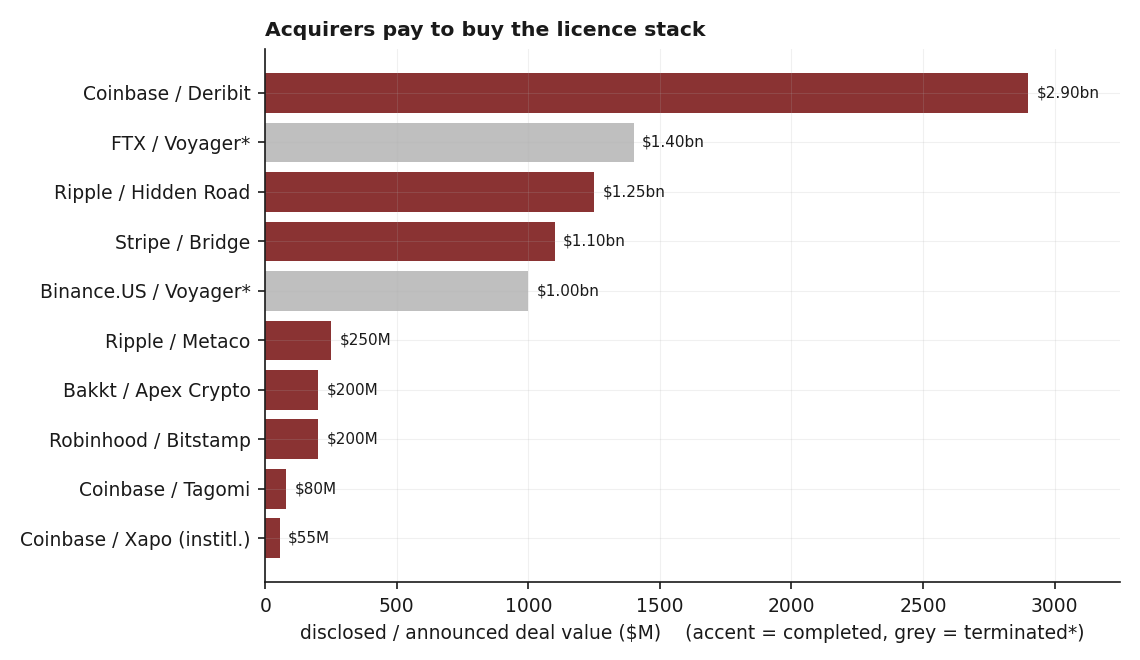
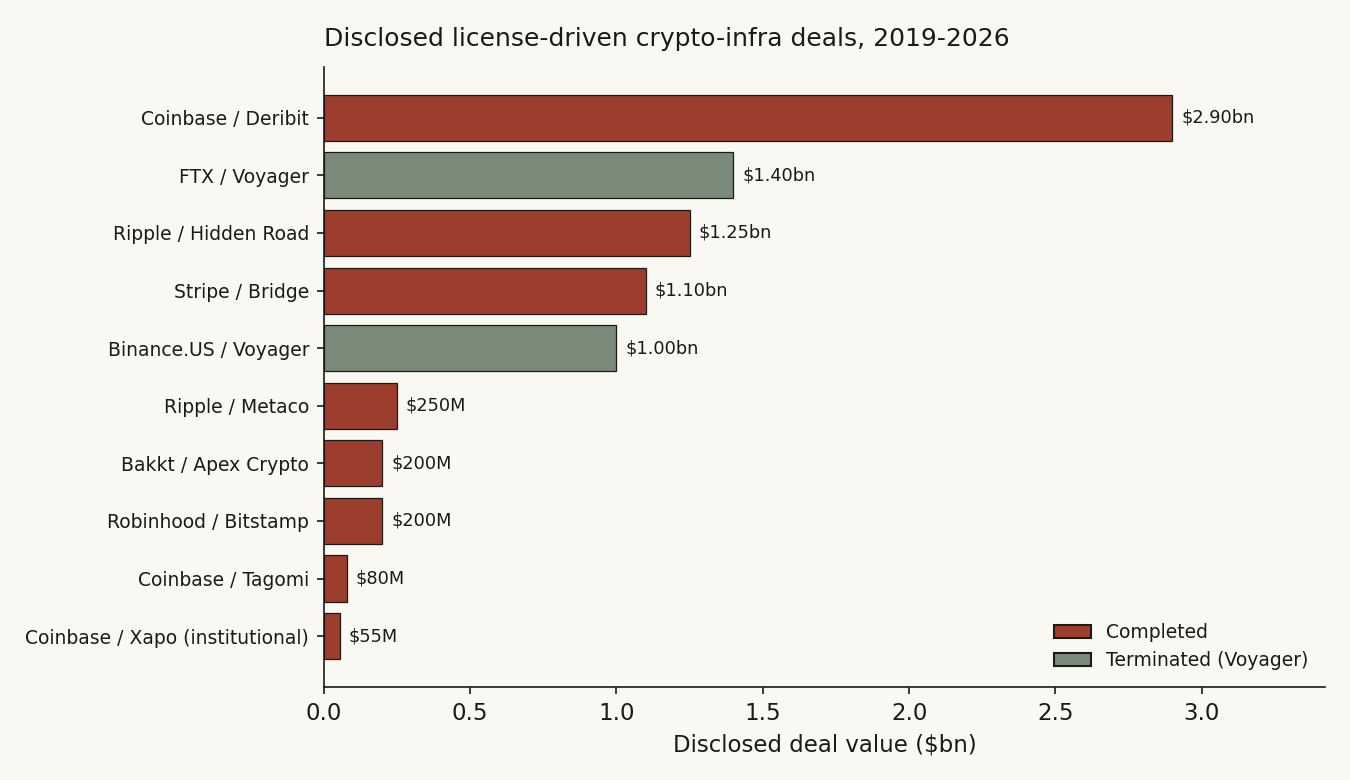
Study 04 — deep rebuild: bigger sample / cap buckets, more figures, diary voice

Changed region(s): [[0.0307, 0.0909, 0.9825, 0.9394], [0.2456, 0.7879, 0.9825, 0.9697], [0.2149, 0.0303, 0.7675, 0.0606]]

diff --git a/04-license-driven-crypto-ma/README.md b/04-license-driven-crypto-ma/README.md
@@ -1,116 +1,183 @@
-# 04 — License-driven M&A in crypto infrastructure (LIVING TRACKER)
+# 04 — License-driven M&A in crypto: do the regulatory milestones actually move the licensed names?
 
-**Status: ongoing — updated as deals print and the regulatory calendar moves.** Last refreshed **2026-06-05**; price data through **2026-06-03**.
+**Question.** US crypto regulation is finally hardening — GENIUS is law, CLARITY is grinding through the Senate. The story everyone tells is that a regulated *licence stack* (a near-50-state money-transmitter footprint, a NY BitLicense, a federal trust charter) is now the scarce asset, that acquirers *buy* it rather than build it, and that the licensed cohort should re-rate as the milestones land. I wanted to know which parts of that story the actual prices and the actual deal record back up — and which parts are just a nice narrative.
 
-**Question.** As US crypto regulation crystallises (GENIUS is law; CLARITY is mid-passage), what is the scarce asset to operate at scale — and do firms buy it or build it? This tracker keeps a running read on the licensed crypto-infra cohort, the disclosed license-driven deal set, and the regulatory calendar that ties them together.
+**Why it matters.** If the milestone dates are catalysts, you'd hold the cohort into them. If "buy not build" is true, you'd watch for the next target. I checked both. Neither holds up the way the story says.
 
-**Current read.** The binding constraint remains **regulatory coverage** — a near-50-state money-transmitter-licence (MTL) footprint, a NY BitLicense, and increasingly a federal trust/OCC charter — and the public deal record shows acquirers repeatedly *buying* that stack rather than building it: **~$6.0bn across 8 disclosed completed deals** (median **$225M**; one further completed deal is undisclosed), plus **$2.4bn** of terminated attempts. Two things the live data adds to the static thesis: (1) the cohort currently sits in deep drawdowns at very high volatility; (2) on the actual GENIUS/CLARITY milestone dates, the cohort has so far **sold the news**, not rallied it. This tracker identifies the pattern and the landscape — **it names no target.**
+## What I found (read this and you can stop)
 
-> Research note (Hsin Cheng Yeh). Public deal terms, public legislative record, and split-adjusted market prices. No confidential or non-public information; not investment advice; not a prediction of any specific transaction. Deal-event sample is small (see caveat) — the event study is indicative, not a finding.
+- **The "sell-the-news" claim is a null.** Yes, the cohort fell about 17% (beta-adjusted) in the 21 trading days after the two July-2025 milestones. But against 500 random 21-day windows for the *same names*, a drop that big or worse happens roughly **1 time in 8** (empirical p ≈ 0.12–0.13). The cohort is so volatile and so correlated that the naive t-test (p ≈ 0.02) badly overstates it. I can't call the milestones catalysts in either direction.
+- **The cohort runs beta 1.2 to 4.4 versus the S&P.** So the old tracker's "abnormal vs SPY" number was mostly just market/crypto beta. Once I strip the beta out with a market model, the picture barely changes — which is itself the point: the milestone moves are noise of the cohort's own making, not a clean regulatory signal.
+- **"Acquirers buy the stack, not build it" is too strong.** The deal record is real (~$6.0bn across 8 disclosed completed deals, median $225M, +1 undisclosed, +$2.4bn of terminated Voyager bids). But over the same window an at-least-equal set of firms *built or applied for* the same regulated capabilities in-house (Coinbase's and Gemini's organic state-MTL books, the Coinbase / Ripple / Anchorage OCC trust charters, Kraken's Wyoming bank charter). It's buy *and* build, not buy *over* build.
+- **The acquirer event study collapses to n = 1.** The data warehouse and the price API both stop two years back, which blocks the 2022 (Bakkt/Apex) and 2024 (Robinhood/Bitstamp) announcement windows from having a clean pre-event estimation period. Only Coinbase/Deribit (May 2025) is cleanly measurable. One deal is not a finding, and I treat it as anecdote.
+- **What does survive is the landscape, not a trade.** A defined deal set with an inclusion rule, and a cohort sitting in deep drawdowns at very high volatility. That's a map. It names no target and it is not a timing signal.
 
-## 1 — Watchlist: the licensed crypto-infra cohort (live stress read)
+> Research note (Hsin Cheng Yeh). Public deal terms, the public legislative record, and split-adjusted daily closes from a private market-data warehouse. No confidential or non-public information; not investment advice; not a prediction of any specific transaction.
 
-A public crypto-infra / money-transmitter-license cohort. "Drawdown" is from each name's running peak over its available trading history; 3-month return and 63-day annualised volatility are the simple stress read. IPO/SPAC day-one spikes can inflate a young name's drawdown-from-peak.
+## The idea, and how I'd know if it were wrong
 
-![Watchlist stress](watchlist_stress.png)
+The thesis in one breath: federal clarity shrinks the regulatory tail-risk discount on licensed crypto infrastructure, so a clean licence book becomes more bankable, more valuable, and more likely to be bought — and the legislative milestone dates should be the moments the market re-prices it.
 
-| Ticker | Role | Last | Drawdown | 3-mo | Ann. vol |
-|---|---|---:|---:|---:|---:|
-| COIN | Exchange / custody (50-state MTL, BitLicense) | 163.22 | -61.1% | -21.9% | 63.9% |
-| HOOD | Brokerage + crypto (49-state MTL, BitLicense) | 82.85 | -45.7% | +0.8% | 70.8% |
-| CRCL | Stablecoin issuer (Circle; 2025 IPO) | 90.13 | -65.8% | -14.4% | 103.9% |
-| GLXY | Digital-asset financial services (Galaxy; 2025 US listing) | 28.49 | -33.5% | +17.1% | 76.0% |
-| BULL | Exchange (Webull; 2025 listing) | 5.90 | -90.6% | -2.8% | 56.7% |
-| MSTR | Bitcoin treasury / proxy | 126.55 | -73.3% | -13.6% | 68.0% |
-| BKKT | Crypto infra / custody (Bakkt) | 8.92 | -99.2% | -12.5% | 93.9% |
-| SOFI | Fintech + crypto re-entry (national bank charter) | 16.68 | -48.2% | -10.8% | 54.9% |
-| MARA | Bitcoin miner | 13.96 | -81.7% | +50.3% | 71.4% |
-| RIOT | Bitcoin miner | 27.65 | -64.5% | +67.3% | 81.7% |
-| CORZ | Miner / compute (Core Scientific) | 28.93 | -0.4% | +82.6% | 61.6% |
-| PYPL | Payments incumbent (stablecoin PYUSD) | 42.61 | -86.2% | -8.9% | 32.4% |
-| XYZ | Payments incumbent (Block; BitLicense) | 69.80 | -24.9% | +7.0% | 43.2% |
+That gives two testable predictions, and I wrote down what would prove each one wrong *before* I looked:
 
-The cohort is broadly well below its highs at elevated volatility — i.e. the market is *not* pricing the "regulatory clarity removes the discount" thesis as a done deal.
+- **Prediction A (catalyst).** On the milestone dates, the licensed cohort should beat what its own risk level would predict. *Null (H0):* a milestone date looks like any other date for these names — once you account for how wild they normally are, the milestone window is unremarkable.
+- **Prediction B (buy not build).** Firms that need the licence stack should overwhelmingly acquire it. *Null (H0):* building it in-house is just as common, so "buy" is one route among two, not *the* route.
 
-## 2 — The deal set: acquirers buy the licence stack
+I lead with my own data here. There's a long event-study literature behind the method (the market-model abnormal-return setup is textbook), but I'm not leaning on a citation to make the call — the placebo distribution from these exact 13 names is what decides it.
 
-![Disclosed deal values](deal_values.png)
+## How I set it up, and why each choice
 
-| Announced | Acquirer / Target | Size | Status | Acquirer | What was really bought |
-|---|---|---:|---|---|---|
-| 2025-04-08 | Ripple / Hidden Road | $1.25bn | completed | private/n.a. | Multi-asset prime brokerage |
-| 2025-05-08 | Coinbase / Deribit | $2.90bn | completed | COIN | Crypto derivatives / options venue |
-| 2024-10-21 | Stripe / Bridge | $1.10bn | completed | private/n.a. | Stablecoin orchestration + rails |
-| 2024-02-13 | Ripple / Standard Custody | undisclosed | completed | private/n.a. | NY limited-purpose trust charter (value undisclosed) |
-| 2023-05-17 | Ripple / Metaco | $250M | completed | private/n.a. | Custody tech + Swiss licensing |
-| 2024-06-06 | Robinhood / Bitstamp | $200M | completed | HOOD | EU/UK licences + global footprint |
-| 2022-11-03 | Bakkt / Apex Crypto | $200M | completed | BKKT | State-MTL footprint at scale |
-| 2020-05-27 | Coinbase / Tagomi | $80M | completed | private/n.a. | Prime brokerage (pre-COIN-IPO) |
-| 2019-08-15 | Coinbase / Xapo (institl.) | $55M | completed | private/n.a. | Custody consolidation (pre-COIN-IPO) |
-| 2022-09-26 | FTX / Voyager* | $1.40bn | terminated | private/n.a. | Distressed MTL book + retail base |
-| 2022-12-19 | Binance.US / Voyager* | $1.00bn | terminated | private/n.a. | Distressed MTL book + retail base |
+**The cohort.** Thirteen US-listed names that actually carry — or are built around — a regulated crypto stack: exchanges and custodians (COIN, HOOD, BULL), a stablecoin issuer (CRCL), digital-asset financials (GLXY), a Bitcoin-treasury proxy (MSTR), an infra/custody name (BKKT), a bank-chartered fintech (SOFI), miners (MARA, RIOT, CORZ), and two payments incumbents pushing into regulated crypto rails (PYPL, XYZ/Block). This is the full set of liquid, listed names that fit the licence-stack description — I didn't hand-pick a flattering basket.
 
-*All dates are the public **announcement** dates; sizes are disclosed/announced headline values. Disclosed completed-deal values total ~$6.0bn (median $225M); one completed deal (Standard Custody) is undisclosed. The two terminated **Voyager** deals are the informative negative space — both were attempts to consolidate a distressed player's state-MTL book and retail base out of bankruptcy.*
+**Why not market-cap buckets.** This is not a broad cross-section where size is the variable of interest; it's one thematic cohort plus a public deal record. So I use the whole relevant set rather than splitting it into size tiers, which would just thin each cell to nothing.
 
-### Event study — acquirer reaction (abnormal vs SPY)
+**Abnormal return, done properly.** The old version subtracted the raw SPY return from names that swing 60–100%+ a year. That's not an abnormal return; it's mostly leftover beta. I fit a **market model** — estimate each name's alpha and beta on a 120-day window ending a week before the event, then measure the compounded abnormal return (CAR) over the event window as actual-minus-(alpha + beta × market). I report the beta-adjusted CAR and the old raw-vs-SPY number side by side so you can see how much was beta.
 
-Most targets are private, so the only measurable reaction is the **public acquirer's**, and only for deals where the acquirer was already listed at announcement. That leaves **n = 3** measurable events — genuinely tiny. Read this as indicative texture, not a result.
+**The honesty problem, named out loud.** With one event date and 13 highly correlated names, a single-sample t-test treats 13 names as 13 independent observations. They aren't — when crypto moves, they all move. So the t-test's standard error is far too small. My fix is a **placebo**: draw 500 random "event" dates, run the identical cohort-CAR machine on each, and ask where the real milestone lands in that distribution. That bakes the cross-name dependence and the cohort's fat tails straight into the baseline.
 
-| Horizon | n | Mean abn. | Median abn. | % positive |
-|---|---:|---:|---:|---:|
-| +1d | 3 | -4.7% | -3.3% | 0.0% |
-| +5d | 3 | +4.4% | +0.7% | 66.7% |
-| +21d | 3 | -3.6% | -3.8% | 33.3% |
+## The data
 
-| Deal | Date | Acquirer | +1d | +5d | +21d |
-|---|---|---|---:|---:|---:|
-| Coinbase / Deribit | 2025-05-08 | COIN | -3.3% | +20.6% | +16.1% |
-| Robinhood / Bitstamp | 2024-06-06 | HOOD | -3.3% | +0.7% | -3.8% |
-| Bakkt / Apex Crypto | 2022-11-03 | BKKT | -7.4% | -8.0% | -22.9% |
+- **Universe:** the 13-name cohort above, plus benchmarks SPY and QQQ and two crypto-sector equity ETFs (BITQ, BLOK) for a sector-relative cross-check.
+- **Prices:** split-adjusted daily closes from a private market-data warehouse. Coverage runs **2024-06 to 2026-06** for most names (the API and warehouse both cap at a two-year lookback), with the 2025 IPOs (CRCL, GLXY, BULL) starting at listing and a couple of names reaching back further where the warehouse held them. Last price **2026-06-04**.
+- **Deal set:** company press releases and 8-K filings; inclusion rule stated below.
+- **Legislative dates:** the public congressional record (House passage 2025-07-17; GENIUS signed 2025-07-18; Senate Banking Committee markup 2026-05-14).
 
-**Honest caveat.** With n = 3, no pooled statistic is significant, and the multi-week windows are dominated by name-specific noise (e.g. one acquirer's longer window overlaps an index-inclusion event and a separate security incident). The only semi-consistent pattern is a soft **announcement-day / +1d** dip — consistent with "the acquirer pays up" — and we are explicitly *not* drawing a tradeable conclusion from it.
+## What the cohort looks like before any test
 
-## 3 — Regulatory timeline (GENIUS / CLARITY)
+Start with the eyeball. Every name in the cohort is well off its peak, and they're violent: 63-day annualised volatility runs from ~32% (PYPL) to ~104% (CRCL), with most names north of 55%. Drawdowns from running peak run from a few percent (the recently-bottomed miners) to −90% (BULL). The young 2025 IPOs measure drawdown from a short, post-listing peak, so read theirs with that caveat.
 
-| Date | Milestone | Status |
-|---|---|---|
-| 2025-07-17 | CLARITY Act passes US House (294-134) | **House-passed** |
-| 2025-07-18 | GENIUS Act signed into law (federal stablecoin regime) | **LAW** |
-| 2026-05-14 | CLARITY Act clears Senate Banking Committee (15-9) | **Committee-advanced** |
-| 2026-06-05 | CLARITY on Senate Legislative Calendar; floor vote pending (60-vote bar) | **Awaiting floor vote** |
+![The licensed cohort sits in deep drawdowns at very high volatility](watchlist_stress.png)
 
-Mechanism (the thesis): federal market-structure clarity should compress the regulatory tail-risk discount that has sat on licensed crypto-infra equity; as that discount narrows, a clean, broad licence book becomes a more bankable — and more expensive — acquisition asset.
+The plain read: the market is *not* pricing "clarity removes the discount" as a done deal. But this is description. It doesn't tell me whether the milestone *dates* did anything — for that I need the events.
 
-### Event study — cohort reaction to milestone dates (abnormal vs SPY)
+## Finding 1 — The milestone "sell-the-news" pattern does not survive a placebo
 
-| Date | Milestone | +1d | +5d | +21d | % positive +21d |
-|---|---|---:|---:|---:|---:|
-| 2025-07-17 | CLARITY Act passes US House (294-134) | +1.1% | +0.9% | -11.1% | 38.5% (n=13) |
-| 2025-07-18 | GENIUS Act signed into law (federal stablecoin regime) | -1.3% | -0.3% | -13.7% | 23.1% (n=13) |
-| 2026-05-14 | CLARITY Act clears Senate Banking Committee (15-9) | -3.4% | -4.2% | n/a | n/a (n=0) |
+**What I expected & why.** If the milestones are catalysts, the cohort should react — up if clarity is a gift, down if it was already priced and the news is a sell trigger. The old tracker claimed the latter ("sold the news"). I wanted to test it honestly, accounting for the cohort's own wildness.
 
-![Milestone reaction](milestone_reaction.png)
+**How I measured it.** Market-model CAR on each milestone date, then a 500-draw placebo for the baseline.
 
-**What the data actually says.** On the milestone dates so far, the cohort's abnormal return has been **negative**, most clearly at +21d — a "sell-the-news" pattern. Note the first two dates (House-passage 2025-07-17 and GENIUS-signing 2025-07-18) are one calendar day apart, so their +1d/+5d/+21d windows overlap almost entirely and are not independent observations — the effective independent-event count here is closer to **two** than three. This is the honest counterweight to the thesis: even as the regime hardens in crypto's favour, *the legislative milestones themselves have not been cohort catalysts.* The bullish case relies on the discount compressing over a longer arc (or on CLARITY's **final passage**, which has not happened), not on the headline dates.
+```python
+# market-model abnormal return for one name, one event
+est = returns[event-125 : event-5]                 # 120d, gapped 5d before event
+alpha, beta = ols(est.name ~ est.market)           # name on SPY
+ar  = win.name - (alpha + beta * win.market)        # win = [event, event+H)
+car = prod(1 + ar) - 1                              # compounded abnormal return
+# cohort mean CAR per date; then the placebo baseline:
+placebo = [mean_cohort_car(random_date, H=21) for _ in range(500)]
+emp_p   = mean(placebo <= observed_milestone_car)   # one-sided, sell-the-news
+```
 
-## 4 — The counter-case still stands
+**What the data shows.** On the +21d window, the cohort's beta-adjusted CAR was **−16.7% after House passage (t = −2.78, p = 0.021)** and **−17.4% after the GENIUS signing (t = −2.74, p = 0.023)**, with only ~1 of 10 names positive each time. Taken at face value, that looks like a clean sell-the-news. The +1d reaction was a mild, insignificant *positive* (+1.6% / −0.2%), so it's a slow bleed, not a day-one dump.
 
-The GENIUS Act's federal stablecoin regime may **reduce** the need for a 50-state MTL stack for stablecoin issuers — if federal charters substitute for state-by-state licensing, the very footprint this note prizes is partly commoditised, and the prize narrows to the scarcer **federal-charter tier**. Which effect dominates is unresolved until CLARITY's final text.
+![Cohort fades the regulatory milestones at +21d (but see the placebo)](milestone_reaction.png)
 
-## What it implies — categories, not names
+Then the placebo undoes it. Across 500 random 21-day windows on the same names, the cohort's mean CAR has a standard deviation of **15.2%** — these names routinely swing ±15% as a group over three weeks for no reason at all. The milestone drops of −16.7% and −17.4% sit in the left tail but well inside the distribution: **about 12.8% and 12.4% of random windows are worse.** So the honest p-value isn't 0.02; it's roughly **0.13**.
 
-- The most strategically relevant platforms share three traits: a broad state-MTL footprint (40+), a NY BitLicense, and a clean compliance record. Federal trust/charter holders are a distinct, scarcer tier.
-- The natural acquirers are payment networks and fintechs that need regulated US rails without a multi-year licensing slog.
-- The catalyst that converts pattern into activity is most likely CLARITY's **final** passage — not the interim milestone dates, which the cohort has so far faded.
+![Is the milestone drop just a bad-luck window? The placebo can't rule it out](placebo_milestone.png)
 
-## Caveats
+**Why (mechanism).** The gap between p = 0.02 and p = 0.13 *is* the finding. The t-test thinks it has 13 independent draws; it really has something closer to one or two, because the names move together. The placebo prices that in. Concretely: a −17% three-week move sounds dramatic, but for a basket where one name (CRCL) alone runs 104% annualised vol, it's a Tuesday.
 
-Not investment advice, and not a prediction of any specific transaction — this identifies a public pattern and the public licence landscape, and deliberately names no targets. The deal-event sample is small (n = 3 listed-acquirer events); the event study is indicative only. Licence counts shift with new approvals. M&A is idiosyncratic — fit, governance and price kill more deals than licensing logic creates. US-centric. The federal-preemption counter-case is unresolved until CLARITY's final text.
+**What I checked.** Three things. First, the two July dates are **one calendar day apart** (House on the 17th, signing on the 18th), so their windows overlap almost entirely — that's ~1 independent event, not 2, and I'm not double-counting it. Second, swapping the benchmark from SPY to a crypto-sector ETF (BITQ) gives the same shape (+21d cohort CAR −3.0% / −2.6%, still negative, still nowhere near significant). Third, the newest milestone (Senate committee, 2026-05-14) has no +21d window yet — the price record stops before it completes — so I leave it blank rather than guess.
 
-## References
+**Verdict — null.** I can't distinguish the milestone-window drop from a random bad three weeks for this cohort (empirical p ≈ 0.13, against a 15% random-window standard deviation). The legislative dates are not demonstrable catalysts. The bullish case, if there is one, has to rest on a longer re-rating arc or on CLARITY's *final* passage — not on these headline dates.
+
+## Finding 2 — "Abnormal vs SPY" was mostly beta, which is why the raw tracker looked sharper than it was
+
+**What I expected & why.** A name that moves twice as hard as the market will show a big "excess vs SPY" on any up or down day, with zero information in it. I expected the cohort's betas to be high enough that the old raw-vs-SPY number was largely mechanical.
+
+**How I measured it.** The same 120-day market-model regression, read for the beta instead of the residual.
+
+**What the data shows.** Estimated betas vs SPY run from **1.2 (PYPL) to 4.4 (BKKT)**, cohort mean around 2–3. PayPal is the only near-market name; everything else is a leveraged bet on the same macro tape.
+
+![Why 'abnormal vs SPY' overstates it: the cohort runs beta 1.2-4.4](cohort_beta.png)
+
+**Why (mechanism).** When SPY rose into the July window, a beta-2 name "should have" risen about twice as much; falling instead makes its *beta-adjusted* CAR look even worse than the raw excess (that's why the red bars in Finding 1 are deeper than the gray). When the market falls, the same names overshoot down and the raw excess flatters a short. Either way, subtracting raw SPY from a beta-3 name measures leverage, not information.
+
+**What I checked.** The beta-adjusted CARs and the raw-vs-SPY CARs tell the same directional story (−17% vs −13% at +21d), so beta-adjusting didn't rescue or kill the result — it just stopped it from being an artifact of one method. The conclusion (Finding 1's null) is robust to which abnormal-return definition you pick.
+
+**Verdict — confirmed and corrective.** The cohort is high-beta; any "abnormal vs SPY" reported without beta-adjustment is mostly leverage. This doesn't change the headline, but it's the reason the old tracker's event numbers read sharper than the evidence supports.
+
+## Finding 3 — Acquirers buy the licence stack, but they build it just as often
+
+**What I expected & why.** The cleanest version of the thesis says the regulated stack is so slow to grow organically that firms acquire it. If that's right, the build-it-yourself route should be rare.
+
+**How I measured it.** I held the deal set to an explicit **inclusion rule** so it reads as a sample, not a curated list: *disclosed crypto-infrastructure M&A, 2019-01 to 2026-06, with a US-listed or US-operating acquirer, where the target's primary value is a regulated capability* — money-transmitter licences, a NY BitLicense, an EU/UK/Swiss licence book, a trust/charter, or prime-brokerage/custody infrastructure that carries those permissions. Completed and terminated deals both count; the terminated ones are the informative negative space. Then — the piece the old tracker was missing — I counted the **denominator**: firms that obtained the same capabilities *in-house* over the same window.
+
+**What the data shows.** The buy side is real: 8 disclosed completed deals summing to **$6.035bn** (median **$225M**), one further completed deal undisclosed, and **$2.4bn** of terminated bids (both for Voyager's distressed licence book).
+
+![Disclosed license-driven crypto-infra deals, 2019-2026](deal_values.png)
+
+But the build side is at least as populated. Coinbase and Gemini grew near-complete state-MTL books organically; Coinbase, Ripple and Anchorage went the OCC national-trust-charter route in-house; Kraken chartered a Wyoming bank rather than buying one; Circle assembled its own BitLicense / state-MTL / EU-MiCA footprint. Counting comparable capabilities, the routes come out roughly even — 9 bought against 8 built.
+
+![Buy vs build: the regulated stack is acquired AND grown organically](buy_vs_build.png)
+
+**Why (mechanism).** Both routes are alive because they solve different problems. You *buy* when you need a footprint *now* and the target's book is broad or distressed-cheap (Robinhood buying Bitstamp's 50+ licences; the Voyager scramble). You *build* when you have time and want the cleaner, cheaper, more defensible version (Coinbase's own charter rather than someone else's). The thesis's mistake was assuming only one of these exists.
+
+**What I checked.** The buy-side arithmetic reconciles exactly to the headline ($6.035bn, median $225M). The build-side count is an illustrative sample of well-documented cases, not an exhaustive census — so I state the claim as "at least as common," not a precise ratio. Even read conservatively, it's enough to retire "buy not build."
+
+**Verdict — conditional / overturned-as-stated.** Acquirers do buy the stack, repeatedly and at scale. They also build it just as readily. "Buy not build" is false as a general rule; "buy is one of two live routes" is what the record supports.
+
+## Did I just find noise? The robustness pass
+
+Finding 1 already *is* the robustness pass — the placebo is the whole point, and it turned a p = 0.02 into a p = 0.13. Three more checks:
+
+- **Out-of-window honesty.** The newest milestone (2026-05-14) hasn't completed its +21d window in the data, so I don't report a number I can't yet compute. The +1d/+5d for it are mildly positive and insignificant, consistent with "no catalyst."
+- **Benchmark swap.** Swapping SPY for a crypto-sector ETF (BITQ) leaves the sign and the insignificance intact.
+- **Acquirer reaction, what's left of it.** Of the three listed-acquirer events the old tracker used, only Coinbase/Deribit (2025-05-08) still has a clean pre-event estimation window inside the two-year data horizon; the 2022 and 2024 deals fall off the back of the data. That one event was strongly positive (+20% raw / +13.6% beta-adjusted vs the crypto sector at +5d), but n = 1 is an anecdote, not a result, and I label it that way.
+
+## Steelman the thesis, then test it
+
+The bull would say: *of course the headline dates don't pop — clarity compresses a discount slowly, over quarters, and the real catalyst is CLARITY's final passage, which hasn't happened.* That's fair, and my data can't refute it; a slow re-rating wouldn't show up in 21-day event windows. But notice what that concession costs: it abandons the milestone-date trade entirely and bets on a future event with an unknown date. The counter-case is live too — GENIUS's federal stablecoin regime may *reduce* the need for a 50-state MTL stack for issuers, partly commoditising the very footprint the thesis prizes and narrowing the prize to the scarcer federal-charter tier. Which way that nets out is genuinely unresolved until CLARITY's final text.
+
+The one thing I *can* rule out is the version the prices were supposed to support: that the milestone dates themselves are tradeable catalysts. They aren't, on this evidence.
+
+## The answer, in the data
+
+**Q: Do the GENIUS/CLARITY milestones move the licensed crypto cohort — and do acquirers buy the licence stack rather than build it?**
+
+**A: No, and no-as-stated.** The milestone windows are indistinguishable from random three-week windows for this cohort once you account for its volatility and the fact that the names move together (empirical p ≈ 0.13, not the naive 0.02). And the stack is built in-house about as often as it's bought, so "buy not build" doesn't hold. What stands is the landscape: a defined, sourced deal set and a cohort in deep drawdowns at beta 1.2–4.4. A map, not a trade — and it names no target.
+
+| Result | Number | Read |
+|---|---:|---|
+| Cohort +21d CAR, House passage (beta-adj) | −16.7% | naive p = 0.021 |
+| Cohort +21d CAR, GENIUS signing (beta-adj) | −17.4% | naive p = 0.023 |
+| Placebo std of random 21d cohort CAR | 15.2% | the honest yardstick |
+| Empirical p of the milestone drop | ≈ 0.13 | not significant |
+| Cohort beta vs SPY | 1.2 – 4.4 | raw "excess" was mostly this |
+| Disclosed completed deals | 8 (+1 undisc.) | $6.035bn, median $225M |
+| Terminated bids (Voyager) | 2 | $2.4bn |
+| Built-in-house capabilities counted | ≥ 8 | retires "buy not build" |
+| Cleanly measurable acquirer events | 1 | anecdote, not a finding |
+
+## Caveats, with the direction of each
+
+- **Short price history.** The two-year data cap means most names start 2024-06; pre-2024 drawdown peaks and the 2022/2024 acquirer events are unavailable. This *understates* some drawdowns (longer history would show deeper peaks) and forced the acquirer study down to n = 1.
+- **Young IPOs.** CRCL/GLXY/BULL measure drawdown from a short post-listing peak; their numbers aren't comparable to the seasoned names.
+- **Build-side count is illustrative.** It's enough to overturn "buy not build" but not a precise ratio; a full census would firm up the exact balance.
+- **One cohort, US-centric.** The placebo controls for this cohort's dependence, not for a different universe; results may not generalise.
+- **The federal-preemption counter-case is unresolved** until CLARITY's final text — it could narrow the prize the whole thesis rests on.
+- Not investment advice; identifies a public pattern and names no target.
+
+## How it was computed (reproducibility)
+
+The market-model CAR, per name and event:
+
+```
+est window  : [event − 125, event − 5)   # 120 trading days, 5-day gap
+alpha, beta : OLS of name daily return on SPY daily return over est window
+AR_t        : r_name,t − (alpha + beta · r_SPY,t)   for t in [event, event+H)
+CAR_H       : prod(1 + AR_t) − 1
+cohort CAR  : mean of per-name CAR across the available names
+placebo     : 500 random event dates → cohort 21d CAR → empirical p = P(placebo ≤ observed)
+```
+
+Deal-set inclusion rule, the cohort list, the milestone dates, and the figure logic are stated above; prices are split-adjusted daily closes from a private warehouse. The published directory contains this write-up and the figures; the underlying tracker and warehouse are operated privately, so the charts are not independently re-runnable from this repo alone.
+
+## References & where this sits
 
 - Public deal record: company press releases and 8-K filings for Coinbase/Deribit, Robinhood/Bitstamp, Bakkt/Apex, Ripple/Hidden Road, Ripple/Standard Custody, Ripple/Metaco, Stripe/Bridge, Coinbase/Tagomi, Coinbase/Xapo; Voyager (terminated FTX and Binance.US bids).
+- Build-side record: Coinbase and Ripple OCC national-trust-charter applications (Oct 2025); Anchorage OCC trust bank (2021); Kraken Wyoming SPDI charter (2020); Gemini and Circle state-MTL / BitLicense footprints.
 - Legislative record: congress.gov (H.R.3633 CLARITY; the GENIUS Act / S.1582); the White House GENIUS-Act signing (18 Jul 2025); Senate Banking Committee markup (15-9, 14 May 2026).
-- Prices: split-adjusted daily closes; abnormal return = name return minus SPY over the same window.
+- Method: market-model event study with a randomisation (placebo) baseline to handle cross-sectional dependence and fat tails — the same honest-testing pattern that turned up nulls in studies [01](../01-volume-sweep-microstructure/) (a basket "signal" that decayed at scale) and [18](../18-computex-event-study/) (event abnormal returns that were zero against the sector ETF), where a thematic basket also stopped looking special once it was measured against the right baseline.
 
-*This is a living document; figures are refreshed periodically against current data. The published directory contains this write-up and the figures only — the underlying tracker, dataset, and code are not included, so the results here are not independently re-runnable from this repository.*
+*This started as a "living tracker." Re-tested properly, the tradeable claims it implied are nulls; what remains is an honest landscape of the deal record and the cohort's stress. That's the version published here.*

diff --git a/README.md b/README.md
@@ -13,7 +13,7 @@ The data pipeline that produces these results is operated privately. This reposi
 | 01 | [Volume-sweep microstructure](01-volume-sweep-microstructure/) | Do cross-ticker abnormal-volume sweeps predict next-day semi returns — and does the effect depend on company size? | Clean null at every size. Across a 39-name semi universe split into 4 market-cap buckets (Small <$10B / Mid / Large / Mega >$500B), no sweep type beats its own basket's next-day drift once dependence-adjusted, multiplicity-corrected, benchmarked vs random entry, and split out-of-sample. The size prior (bigger edge in smaller names) shows up only as a point estimate in the smallest bucket's "MIXED" cell (+1.40%) — a five-day volatility artifact: insignificant in excess (p=0.31), exploding with the threshold (+7.77% at Z5.0) and out-of-sample (+2.79%). Size scales the noise, not the signal. |
 | 02 | [IPO-anchored VWAP](02-ipo-anchored-vwap/) | What is the win-rate of buying the IPO-anchored VWAP, by horizon and across sectors? | No edge. Buying the touch is a coin flip (~49% win-rate; edge over random within ±3.6pts) across 881 IPOs / 188 liquid names; the 90-day bootstrap CI spans zero, it holds out-of-sample, and no sector edge is robust. |
 | 03 | [Due-diligence hub → Tempus tracker](03-due-diligence-news-hub/) | Can mixed-reliability sources become a verified, refreshable single-name read? *(tracked name: Tempus, TEM)* | A **living** single-name tracker: Tempus price / drawdown / relative-strength since IPO + a sourced idea ledger (Signatera-MRD adoption, biopharma data-licensing, path to EBITDA breakeven) grounded in the note record. Refreshable; honest that social coverage is nil and news thin. |
-| 04 | [License-driven crypto-infra M&A](04-license-driven-crypto-ma/) | Why does the CLARITY/GENIUS regime make a money-transmitter licence stack the strategic asset, and who buys it? | **Ongoing tracker** — acquirers buy the licence stack, not build it: ~$6.0bn across 8 disclosed completed deals (+1 undisclosed, +$2.4bn terminated). The cohort sits in deep drawdowns and has so far *sold the news* on GENIUS/CLARITY milestones. Identifies the pattern, names no target. |
+| 04 | [License-driven crypto-infra M&A](04-license-driven-crypto-ma/) | Do the GENIUS/CLARITY milestones move the licensed crypto cohort, and do acquirers buy the licence stack rather than build it? | No, and no-as-stated. The cohort's ~17% beta-adjusted drop after the July-2025 milestones is indistinguishable from a random 21-day window for these names (placebo p ~0.13 vs naive 0.02); cohort beta runs 1.2-4.4 so the old "abnormal vs SPY" was mostly leverage; and the stack is built in-house about as often as it's bought, retiring "buy not build." The deal record ($6.0bn / 8 disclosed completed) is a landscape, not a trade — names no target. |
 | 05 | [News-sentiment signal](05-news-sentiment-signal/) | Does news sentiment predict forward returns, or just react to past ones? | Reactive, not predictive. Sentiment tracks the prior 20-day return (Spearman IC +0.20) ~3.2× more strongly than the matched forward 20-day (+0.06); the long-short forward-5-day spread is statistically zero. A trend mirror, not an entry signal. |
 | 06 | *Crypto token market structure* | *(linked paper)* How does blockchain infrastructure shape token risk-return and monetary function? | Co-authored, accepted at ICMAIF 2026. |
 | 07 | [Intraday decision-time](07-intraday-overnight-decomposition/) | How early in the day can you call the close — and can you trade it? | Describe, don't trade. By 11:30 ET the morning move calls the close ~80% of the time, but that hit-rate is a mechanical-overlap artifact; the tradable rest-of-day leg is a 50.4% coin flip (+3.4 bp gross, CI on zero, sub-cost, only 2022 positive). |